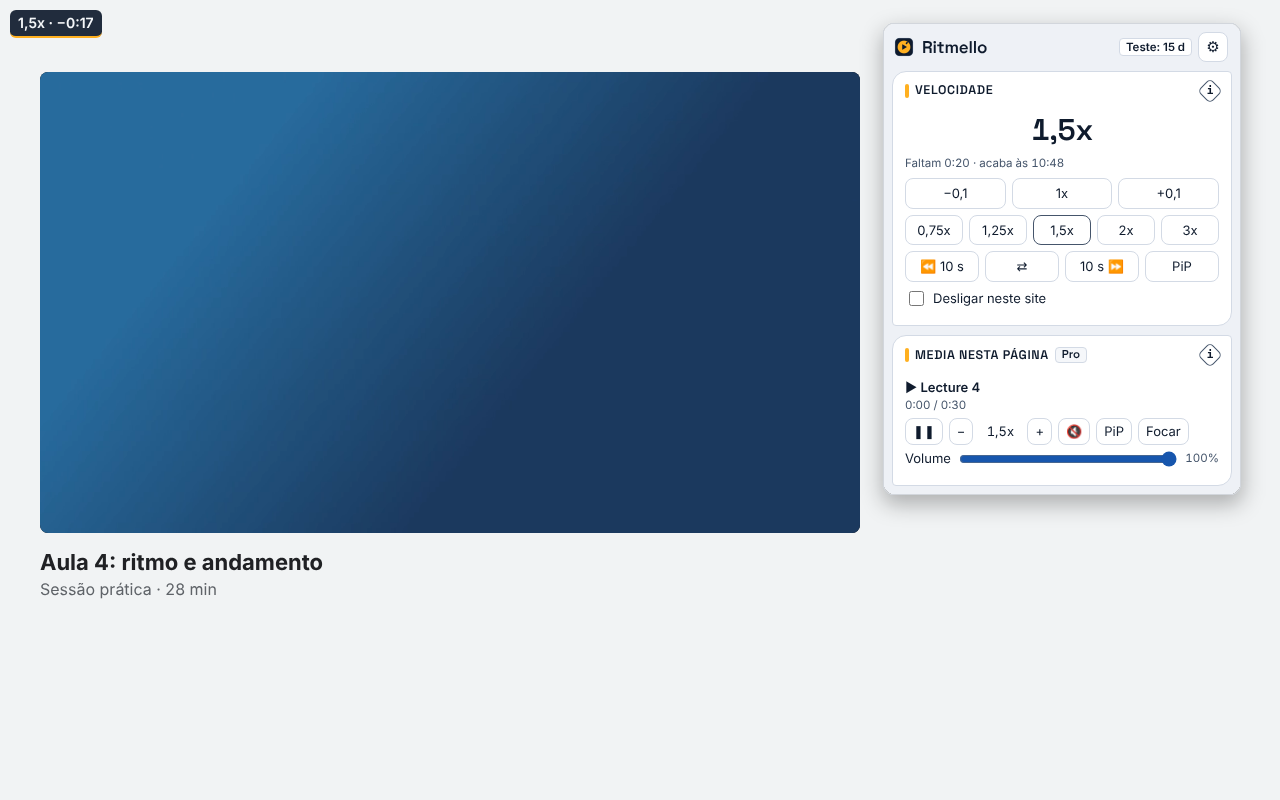
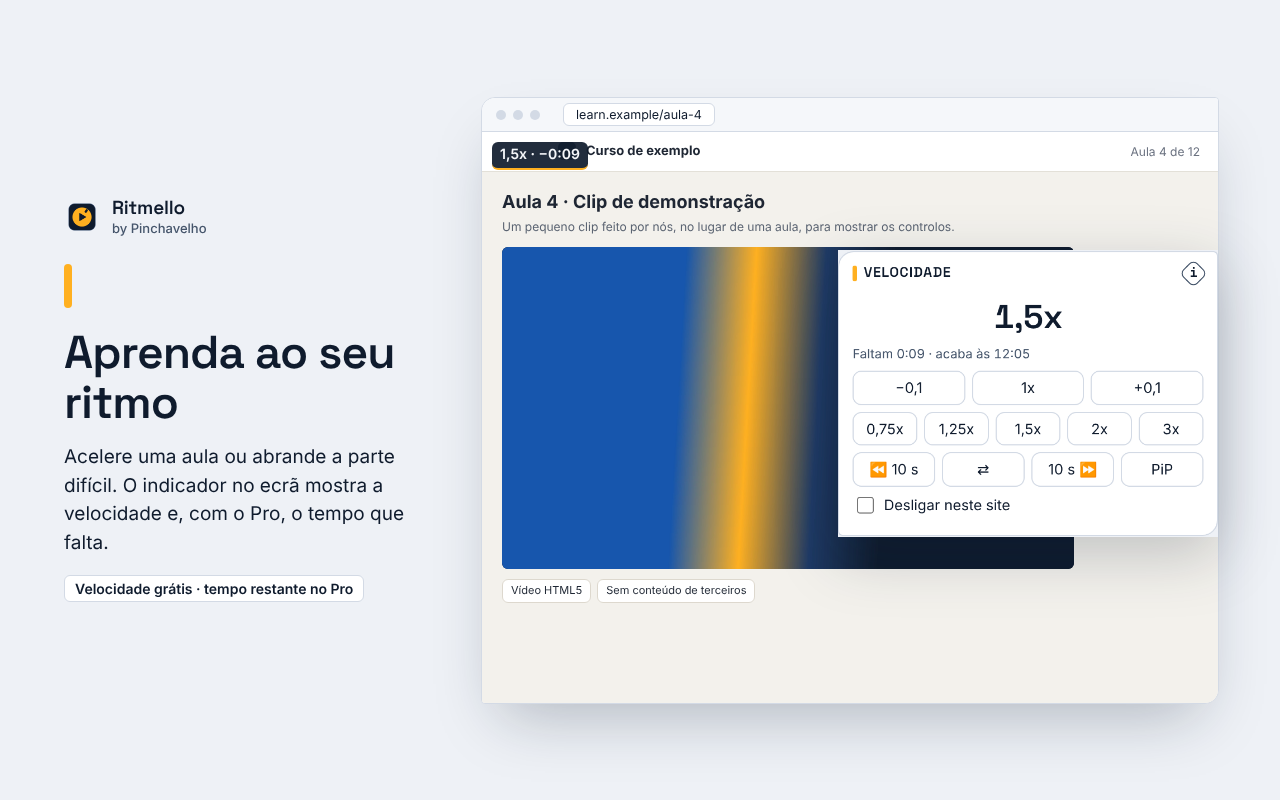
Capturas definitivas do Ritmello 1.0.0 e ampliar imagens ao clicar
As 4 capturas provisórias passam às definitivas da loja (EN e PT).
Clicar numa captura amplia-a por cima da página, só com CSS (:target),
sem JS; clicar outra vez ou em Fechar volta à galeria.

Claude-Session: https://claude.ai/code/session_01B6e4ap8FPP9z31xEanH7sp

diff --git a/pt/ritmello/index.html b/pt/ritmello/index.html
@@ -43,7 +43,7 @@
 <p class="lead">Velocidade, saltos e som mais claro para os vídeos e áudios com que aprende, em qualquer site. O Ritmello só entra numa página quando clica nele. Sem rastreio. Sem anúncios. Sem conta.</p>
 <div class="actions"><span class="btn pending">Chrome Web Store: brevemente</span><a class="btn" href="#price">Ritmello Pro: pague o que achar justo</a></div>
 <p class="note">Para o Google Chrome 124 ou mais recente. Todas as funcionalidades Pro podem ser experimentadas grátis durante 15 dias.</p></div></div></section>
-<section class="wrap" aria-labelledby="see"><h2 id="see">Veja</h2><p class="note">Imagens de uma versão de teste; vão ser substituídas no lançamento.</p><div class="shots"><figure><img src="/assets/img/screens/ritmello_01_speed_pt_1280x800.png" alt="O painel do Ritmello ao lado de um vídeo de uma aula: velocidade a 1,5x, com o tempo restante e a lista de media da página." width="1280" height="800" loading="lazy" decoding="async"><figcaption>O painel do Ritmello ao lado de um vídeo de uma aula: velocidade a 1,5x, com o tempo restante e a lista de media da página.</figcaption></figure><figure><img src="/assets/img/screens/ritmello_02_study_pt_1280x800.png" alt="Ferramentas de estudo (Pro): saltar silêncios, modo foco, um loop A-B e um marcador." width="1280" height="800" loading="lazy" decoding="async"><figcaption>Ferramentas de estudo (Pro): saltar silêncios, modo foco, um loop A-B e um marcador.</figcaption></figure><figure><img src="/assets/img/screens/ritmello_03_pro_pt_1280x800.png" alt="O ecrã do Pro: Grátis e Pro lado a lado, e pague o que achar justo a partir do mínimo." width="1280" height="800" loading="lazy" decoding="async"><figcaption>O ecrã do Pro: Grátis e Pro lado a lado, e pague o que achar justo a partir do mínimo.</figcaption></figure><figure><img src="/assets/img/screens/ritmello_04_audio_dark_pt_1280x800.png" alt="Ferramentas de som (Pro) no modo escuro: amplificação de volume, equalizador e Voz clara." width="1280" height="800" loading="lazy" decoding="async"><figcaption>Ferramentas de som (Pro) no modo escuro: amplificação de volume, equalizador e Voz clara.</figcaption></figure></div></section>
+<section class="wrap" aria-labelledby="see"><h2 id="see">Veja</h2><p class="note">Clique numa imagem para a ampliar.</p><div class="shots"><figure><a class="zoomable" href="#zoom-1" aria-label="Ampliar imagem: O painel de velocidade do Ritmello ao lado de um vídeo de uma aula: 1,5x, com a hora a que acaba ao seu ritmo e o indicador no ecrã."><img src="/assets/img/screens/ritmello_01_speed_pt_1280x800.png" alt="O painel de velocidade do Ritmello ao lado de um vídeo de uma aula: 1,5x, com a hora a que acaba ao seu ritmo e o indicador no ecrã." width="1280" height="800" loading="lazy" decoding="async"></a><figcaption>O painel de velocidade do Ritmello ao lado de um vídeo de uma aula: 1,5x, com a hora a que acaba ao seu ritmo e o indicador no ecrã.</figcaption></figure><figure><a class="zoomable" href="#zoom-2" aria-label="Ampliar imagem: Ferramentas de estudo (Pro): saltar silêncios, modo foco, um loop A-B, marcadores e tempo poupado."><img src="/assets/img/screens/ritmello_02_study_pt_1280x800.png" alt="Ferramentas de estudo (Pro): saltar silêncios, modo foco, um loop A-B, marcadores e tempo poupado." width="1280" height="800" loading="lazy" decoding="async"></a><figcaption>Ferramentas de estudo (Pro): saltar silêncios, modo foco, um loop A-B, marcadores e tempo poupado.</figcaption></figure><figure><a class="zoomable" href="#zoom-3" aria-label="Ampliar imagem: Modo foco (Pro): o resto da página fica escurecido à volta do vídeo."><img src="/assets/img/screens/ritmello_03_focus_pt_1280x800.png" alt="Modo foco (Pro): o resto da página fica escurecido à volta do vídeo." width="1280" height="800" loading="lazy" decoding="async"></a><figcaption>Modo foco (Pro): o resto da página fica escurecido à volta do vídeo.</figcaption></figure><figure><a class="zoomable" href="#zoom-4" aria-label="Ampliar imagem: Todos os vídeos da página (Pro): um painel com controlos próprios para cada vídeo e áudio."><img src="/assets/img/screens/ritmello_04_panel_pt_1280x800.png" alt="Todos os vídeos da página (Pro): um painel com controlos próprios para cada vídeo e áudio." width="1280" height="800" loading="lazy" decoding="async"></a><figcaption>Todos os vídeos da página (Pro): um painel com controlos próprios para cada vídeo e áudio.</figcaption></figure></div><div class="lightbox" id="zoom-1"><a href="#see" aria-label="Fechar"><img src="/assets/img/screens/ritmello_01_speed_pt_1280x800.png" alt="O painel de velocidade do Ritmello ao lado de um vídeo de uma aula: 1,5x, com a hora a que acaba ao seu ritmo e o indicador no ecrã." width="1280" height="800" loading="lazy" decoding="async"><span class="lb-close">Fechar ×</span></a></div><div class="lightbox" id="zoom-2"><a href="#see" aria-label="Fechar"><img src="/assets/img/screens/ritmello_02_study_pt_1280x800.png" alt="Ferramentas de estudo (Pro): saltar silêncios, modo foco, um loop A-B, marcadores e tempo poupado." width="1280" height="800" loading="lazy" decoding="async"><span class="lb-close">Fechar ×</span></a></div><div class="lightbox" id="zoom-3"><a href="#see" aria-label="Fechar"><img src="/assets/img/screens/ritmello_03_focus_pt_1280x800.png" alt="Modo foco (Pro): o resto da página fica escurecido à volta do vídeo." width="1280" height="800" loading="lazy" decoding="async"><span class="lb-close">Fechar ×</span></a></div><div class="lightbox" id="zoom-4"><a href="#see" aria-label="Fechar"><img src="/assets/img/screens/ritmello_04_panel_pt_1280x800.png" alt="Todos os vídeos da página (Pro): um painel com controlos próprios para cada vídeo e áudio." width="1280" height="800" loading="lazy" decoding="async"><span class="lb-close">Fechar ×</span></a></div></section>
 <section class="wrap" aria-labelledby="what"><h2 id="what">O que faz</h2><div class="grid">
 <div class="card"><h3>A sua velocidade</h3><p>De 0,1x a 16x, em passos de 0,1 ou com predefinições de um clique. A velocidade que escolhe mantém-se ao longo do vídeo.</p></div>
 <div class="card"><h3>Menos espera</h3><p>Salte 10 segundos com uma tecla. Com o Pro, o Ritmello acelera nos silêncios das aulas e palestras e diz-lhe quanto tempo poupou.</p></div>

diff --git a/ritmello/index.html b/ritmello/index.html
@@ -43,7 +43,7 @@
 <p class="lead">Speed, skips and clearer sound for the video and audio you learn from, on any website. Ritmello only enters a page when you click it. No tracking. No ads. No account.</p>
 <div class="actions"><span class="btn pending">Chrome Web Store: coming soon</span><a class="btn" href="#price">Ritmello Pro: pay what you think is fair</a></div>
 <p class="note">For Google Chrome 124 or later. Every Pro feature can be tried free for 15 days.</p></div></div></section>
-<section class="wrap" aria-labelledby="see"><h2 id="see">See it</h2><p class="note">Images from a test version; they will be replaced at launch.</p><div class="shots"><figure><img src="/assets/img/screens/ritmello_01_speed_en_1280x800.png" alt="Ritmello&#x27;s panel next to a lesson video: speed set to 1.5x, with the time left and the list of media on the page." width="1280" height="800" loading="lazy" decoding="async"><figcaption>Ritmello&#x27;s panel next to a lesson video: speed set to 1.5x, with the time left and the list of media on the page.</figcaption></figure><figure><img src="/assets/img/screens/ritmello_02_study_en_1280x800.png" alt="Study tools (Pro): skip silences, focus mode, an A-B loop and a bookmark." width="1280" height="800" loading="lazy" decoding="async"><figcaption>Study tools (Pro): skip silences, focus mode, an A-B loop and a bookmark.</figcaption></figure><figure><img src="/assets/img/screens/ritmello_03_pro_en_1280x800.png" alt="The Pro screen: Free and Pro side by side, and pay what you think is fair from the minimum." width="1280" height="800" loading="lazy" decoding="async"><figcaption>The Pro screen: Free and Pro side by side, and pay what you think is fair from the minimum.</figcaption></figure><figure><img src="/assets/img/screens/ritmello_04_audio_dark_en_1280x800.png" alt="Audio tools (Pro) in dark mode: volume boost, equalizer and Clear voice." width="1280" height="800" loading="lazy" decoding="async"><figcaption>Audio tools (Pro) in dark mode: volume boost, equalizer and Clear voice.</figcaption></figure></div></section>
+<section class="wrap" aria-labelledby="see"><h2 id="see">See it</h2><p class="note">Click an image to enlarge it.</p><div class="shots"><figure><a class="zoomable" href="#zoom-1" aria-label="Enlarge image: Ritmello&#x27;s speed panel next to a lesson video: 1.5x, with the time it ends at your speed and the on-screen indicator."><img src="/assets/img/screens/ritmello_01_speed_en_1280x800.png" alt="Ritmello&#x27;s speed panel next to a lesson video: 1.5x, with the time it ends at your speed and the on-screen indicator." width="1280" height="800" loading="lazy" decoding="async"></a><figcaption>Ritmello&#x27;s speed panel next to a lesson video: 1.5x, with the time it ends at your speed and the on-screen indicator.</figcaption></figure><figure><a class="zoomable" href="#zoom-2" aria-label="Enlarge image: Study tools (Pro): skip silences, focus mode, an A-B loop, bookmarks and time saved."><img src="/assets/img/screens/ritmello_02_study_en_1280x800.png" alt="Study tools (Pro): skip silences, focus mode, an A-B loop, bookmarks and time saved." width="1280" height="800" loading="lazy" decoding="async"></a><figcaption>Study tools (Pro): skip silences, focus mode, an A-B loop, bookmarks and time saved.</figcaption></figure><figure><a class="zoomable" href="#zoom-3" aria-label="Enlarge image: Focus mode (Pro): the rest of the page is dimmed around the video."><img src="/assets/img/screens/ritmello_03_focus_en_1280x800.png" alt="Focus mode (Pro): the rest of the page is dimmed around the video." width="1280" height="800" loading="lazy" decoding="async"></a><figcaption>Focus mode (Pro): the rest of the page is dimmed around the video.</figcaption></figure><figure><a class="zoomable" href="#zoom-4" aria-label="Enlarge image: Every video on the page (Pro): one panel with its own controls for each video and audio."><img src="/assets/img/screens/ritmello_04_panel_en_1280x800.png" alt="Every video on the page (Pro): one panel with its own controls for each video and audio." width="1280" height="800" loading="lazy" decoding="async"></a><figcaption>Every video on the page (Pro): one panel with its own controls for each video and audio.</figcaption></figure></div><div class="lightbox" id="zoom-1"><a href="#see" aria-label="Close"><img src="/assets/img/screens/ritmello_01_speed_en_1280x800.png" alt="Ritmello&#x27;s speed panel next to a lesson video: 1.5x, with the time it ends at your speed and the on-screen indicator." width="1280" height="800" loading="lazy" decoding="async"><span class="lb-close">Close ×</span></a></div><div class="lightbox" id="zoom-2"><a href="#see" aria-label="Close"><img src="/assets/img/screens/ritmello_02_study_en_1280x800.png" alt="Study tools (Pro): skip silences, focus mode, an A-B loop, bookmarks and time saved." width="1280" height="800" loading="lazy" decoding="async"><span class="lb-close">Close ×</span></a></div><div class="lightbox" id="zoom-3"><a href="#see" aria-label="Close"><img src="/assets/img/screens/ritmello_03_focus_en_1280x800.png" alt="Focus mode (Pro): the rest of the page is dimmed around the video." width="1280" height="800" loading="lazy" decoding="async"><span class="lb-close">Close ×</span></a></div><div class="lightbox" id="zoom-4"><a href="#see" aria-label="Close"><img src="/assets/img/screens/ritmello_04_panel_en_1280x800.png" alt="Every video on the page (Pro): one panel with its own controls for each video and audio." width="1280" height="800" loading="lazy" decoding="async"><span class="lb-close">Close ×</span></a></div></section>
 <section class="wrap" aria-labelledby="what"><h2 id="what">What it does</h2><div class="grid">
 <div class="card"><h3>Your speed</h3><p>From 0.1x to 16x, in steps of 0.1 or with one-click presets. The speed you pick stays as you move through the video.</p></div>
 <div class="card"><h3>Less waiting</h3><p>Skip 10 seconds with a key. With Pro, Ritmello speeds through the silences in lessons and talks, and tells you how much time you saved.</p></div>

diff --git a/assets/css/site.css b/assets/css/site.css
@@ -95,3 +95,11 @@ code{font-family:ui-monospace,SFMono-Regular,Menlo,Consolas,monospace;font-size:
 .tablewrap{overflow-x:auto;margin:1rem 0}
 .tablewrap table{margin:0}
 .doc code{overflow-wrap:anywhere}
+/* Ampliar capturas sem JS (:target). Ver _ferramentas/gerar_site.py, ritmello(). */
+a.zoomable{display:block;cursor:zoom-in}
+a.zoomable:focus-visible img{outline:3px solid var(--ambar);outline-offset:2px}
+.lightbox{display:none}
+.lightbox:target{display:flex;position:fixed;inset:0;z-index:100;align-items:center;justify-content:center;padding:1rem;background:rgba(10,14,22,.92)}
+.lightbox a{display:block;max-width:100%;max-height:100%;cursor:zoom-out;text-decoration:none}
+.lightbox img{display:block;width:auto;height:auto;max-width:min(100%,1280px);max-height:calc(100vh - 4rem);border-radius:8px;margin:0 auto}
+.lb-close{display:block;text-align:center;color:#fff;margin-top:.5rem;font-size:.95rem}

diff --git a/_ferramentas/gerar_site.py b/_ferramentas/gerar_site.py
@@ -255,10 +255,10 @@ R = {
              "Time left at your speed, and time saved", "Focus mode", "Volume boost up to 600%",
              "10-band equalizer with presets", "Clear voice and Night modes, mono, stereo balance",
              "Per-site memory (stored only on your computer)", "Custom shortcuts, including volume keys"],
-        shots=[("ritmello_01_speed_en_1280x800.png", "Ritmello's panel next to a lesson video: speed set to 1.5x, with the time left and the list of media on the page."),
-               ("ritmello_02_study_en_1280x800.png", "Study tools (Pro): skip silences, focus mode, an A-B loop and a bookmark."),
-               ("ritmello_03_pro_en_1280x800.png", "The Pro screen: Free and Pro side by side, and pay what you think is fair from the minimum."),
-               ("ritmello_04_audio_dark_en_1280x800.png", "Audio tools (Pro) in dark mode: volume boost, equalizer and Clear voice.")],
+        shots=[("ritmello_01_speed_en_1280x800.png", "Ritmello's speed panel next to a lesson video: 1.5x, with the time it ends at your speed and the on-screen indicator."),
+               ("ritmello_02_study_en_1280x800.png", "Study tools (Pro): skip silences, focus mode, an A-B loop, bookmarks and time saved."),
+               ("ritmello_03_focus_en_1280x800.png", "Focus mode (Pro): the rest of the page is dimmed around the video."),
+               ("ritmello_04_panel_en_1280x800.png", "Every video on the page (Pro): one panel with its own controls for each video and audio.")],
         limits_title="They’ll always win.",
         limits_intro="Some things we wanted to build are not possible, or not allowed. Here they are, before you buy.",
         idea="We thought of:", reason="Why not:", instead="What it does instead:",
@@ -281,10 +281,10 @@ R = {
              "Tempo restante ao seu ritmo e tempo poupado", "Modo foco", "Amplificação de volume até 600%",
              "Equalizador de 10 bandas com predefinições", "Modos Voz clara e Noite, mono, balanço estéreo",
              "Memória por site (guardada só no seu computador)", "Atalhos personalizados, incluindo teclas de volume"],
-        shots=[("ritmello_01_speed_pt_1280x800.png", "O painel do Ritmello ao lado de um vídeo de uma aula: velocidade a 1,5x, com o tempo restante e a lista de media da página."),
-               ("ritmello_02_study_pt_1280x800.png", "Ferramentas de estudo (Pro): saltar silêncios, modo foco, um loop A-B e um marcador."),
-               ("ritmello_03_pro_pt_1280x800.png", "O ecrã do Pro: Grátis e Pro lado a lado, e pague o que achar justo a partir do mínimo."),
-               ("ritmello_04_audio_dark_pt_1280x800.png", "Ferramentas de som (Pro) no modo escuro: amplificação de volume, equalizador e Voz clara.")],
+        shots=[("ritmello_01_speed_pt_1280x800.png", "O painel de velocidade do Ritmello ao lado de um vídeo de uma aula: 1,5x, com a hora a que acaba ao seu ritmo e o indicador no ecrã."),
+               ("ritmello_02_study_pt_1280x800.png", "Ferramentas de estudo (Pro): saltar silêncios, modo foco, um loop A-B, marcadores e tempo poupado."),
+               ("ritmello_03_focus_pt_1280x800.png", "Modo foco (Pro): o resto da página fica escurecido à volta do vídeo."),
+               ("ritmello_04_panel_pt_1280x800.png", "Todos os vídeos da página (Pro): um painel com controlos próprios para cada vídeo e áudio.")],
         limits_title="Eles vão ganhar sempre.",
         limits_intro="Algumas coisas que quisemos fazer não são possíveis ou não são permitidas. Aqui estão, antes de comprar.",
         idea="Pensámos em:", reason="Porque não:", instead="O que faz em vez disso:",
@@ -334,9 +334,15 @@ def buy_buttons(lang):
 def ritmello(lang):
     r = R[lang]
     en = lang == "en"
+    # Ampliar sem JS: cada captura liga para #zoom-N; o CSS mostra esse bloco (:target) por cima da página.
+    # Clicar na imagem ampliada (ou em "Fechar") volta a #see. A imagem ampliada só carrega quando aparece.
+    zoom_l, close_l = ("Enlarge image", "Close") if en else ("Ampliar imagem", "Fechar")
     shots = "".join(
-        '<figure><img src="/assets/img/screens/%s" alt="%s" width="1280" height="800" loading="lazy" decoding="async"><figcaption>%s</figcaption></figure>'
-        % (f, e(a), e(a)) for f, a in r["shots"])
+        '<figure><a class="zoomable" href="#zoom-%d" aria-label="%s: %s"><img src="/assets/img/screens/%s" alt="%s" width="1280" height="800" loading="lazy" decoding="async"></a><figcaption>%s</figcaption></figure>'
+        % (i, zoom_l, e(a), f, e(a), e(a)) for i, (f, a) in enumerate(r["shots"], 1))
+    shots_zoom = "".join(
+        '<div class="lightbox" id="zoom-%d"><a href="#see" aria-label="%s"><img src="/assets/img/screens/%s" alt="%s" width="1280" height="800" loading="lazy" decoding="async"><span class="lb-close">%s ×</span></a></div>'
+        % (i, close_l, f, e(a), close_l) for i, (f, a) in enumerate(r["shots"], 1))
     rows = "".join('<tr><th scope="row">%s</th><td class="c">%s</td><td class="c">%s</td></tr>' % (e(x), yes(lang), yes(lang)) for x in r["free"])
     rows += "".join('<tr><th scope="row">%s</th><td class="c">%s</td><td class="c">%s</td></tr>' % (e(x), no(lang), yes(lang)) for x in r["pro"])
     cws = '<span class="btn pending">%s</span>' % T[lang]["cws_soon"]
@@ -354,7 +360,7 @@ def ritmello(lang):
 <p class="lead">Speed, skips and clearer sound for the video and audio you learn from, on any website. Ritmello only enters a page when you click it. No tracking. No ads. No account.</p>
 <div class="actions">{cws}{buy}</div>
 <p class="note">For Google Chrome 124 or later. Every Pro feature can be tried free for 15 days.</p></div></div></section>
-<section class="wrap" aria-labelledby="see"><h2 id="see">See it</h2><p class="note">Images from a test version; they will be replaced at launch.</p><div class="shots">{shots}</div></section>
+<section class="wrap" aria-labelledby="see"><h2 id="see">See it</h2><p class="note">Click an image to enlarge it.</p><div class="shots">{shots}</div>{shots_zoom}</section>
 <section class="wrap" aria-labelledby="what"><h2 id="what">What it does</h2><div class="grid">
 <div class="card"><h3>Your speed</h3><p>From 0.1x to 16x, in steps of 0.1 or with one-click presets. The speed you pick stays as you move through the video.</p></div>
 <div class="card"><h3>Less waiting</h3><p>Skip 10 seconds with a key. With Pro, Ritmello speeds through the silences in lessons and talks, and tells you how much time you saved.</p></div>
@@ -408,7 +414,7 @@ def ritmello(lang):
 <p class="lead">Velocidade, saltos e som mais claro para os vídeos e áudios com que aprende, em qualquer site. O Ritmello só entra numa página quando clica nele. Sem rastreio. Sem anúncios. Sem conta.</p>
 <div class="actions">{cws}{buy}</div>
 <p class="note">Para o Google Chrome 124 ou mais recente. Todas as funcionalidades Pro podem ser experimentadas grátis durante 15 dias.</p></div></div></section>
-<section class="wrap" aria-labelledby="see"><h2 id="see">Veja</h2><p class="note">Imagens de uma versão de teste; vão ser substituídas no lançamento.</p><div class="shots">{shots}</div></section>
+<section class="wrap" aria-labelledby="see"><h2 id="see">Veja</h2><p class="note">Clique numa imagem para a ampliar.</p><div class="shots">{shots}</div>{shots_zoom}</section>
 <section class="wrap" aria-labelledby="what"><h2 id="what">O que faz</h2><div class="grid">
 <div class="card"><h3>A sua velocidade</h3><p>De 0,1x a 16x, em passos de 0,1 ou com predefinições de um clique. A velocidade que escolhe mantém-se ao longo do vídeo.</p></div>
 <div class="card"><h3>Menos espera</h3><p>Salte 10 segundos com uma tecla. Com o Pro, o Ritmello acelera nos silêncios das aulas e palestras e diz-lhe quanto tempo poupou.</p></div>
@@ -451,7 +457,7 @@ def ritmello(lang):
         buynote = "" if RITMELLO_CHECKOUT else "A compra abre brevemente. "
     perm_rows = "".join('<tr><th scope="row"><code>%s</code></th><td>%s</td></tr>' % (e(a), e(b)) if not a.startswith(("Sites",)) else
                         '<tr><th scope="row">%s</th><td>%s</td></tr>' % (e(a), e(b)) for a, b in perms)
-    body = body.format(cws=cws, buy=buy_top, shots=shots, rows=rows, mn=MIN_ATUAL[lang], fim=FIM_MIN[lang], ini=INICIO_DEPOIS[lang],
+    body = body.format(cws=cws, buy=buy_top, shots=shots, shots_zoom=shots_zoom, rows=rows, mn=MIN_ATUAL[lang], fim=FIM_MIN[lang], ini=INICIO_DEPOIS[lang],
                        md=MIN_DEPOIS[lang], buttons=buy_buttons(lang), buynote=buynote, limits=limits_block(lang), perms=perm_rows)
     return page(lang, "/ritmello/", title, desc, body, current="ritmello")
 

diff --git a/assets/img/screens/README.md b/assets/img/screens/README.md
@@ -2,14 +2,16 @@
 
 > Documentação interna para pessoas e para o bot Grok. Não é publicada no site.
 
-**O que existe:** 8 capturas **provisórias** do Ritmello (versão de teste 0.0.3), 4 em inglês e 4 em português, usadas na galeria `.shots` de `/ritmello/` e `/pt/ritmello/`.
+**O que existe:** 8 capturas **definitivas** do Ritmello 1.0.0 (iguais às da Chrome Web Store, de `ritmello/loja/imagens/` nos ficheiros do projeto), 4 em inglês e 4 em português, usadas na galeria `.shots` de `/ritmello/` e `/pt/ritmello/`. Ao clicar, ampliam-se sem JS (`:target`).
 
 | Ficheiro | Mostra |
 |---|---|
-| `ritmello_01_speed_<en/pt>_1280x800.png` | painel ao lado de um vídeo: velocidade, tempo restante, media da página |
-| `ritmello_02_study_<en/pt>_1280x800.png` | ferramentas de estudo (Pro): saltar silêncios, modo foco, loop A-B, marcador |
-| `ritmello_03_pro_<en/pt>_1280x800.png` | ecrã do Pro: Grátis vs Pro e preço à escolha |
-| `ritmello_04_audio_dark_<en/pt>_1280x800.png` | som (Pro) no modo escuro |
+| `ritmello_01_speed_<en/pt>_1280x800.png` | painel de velocidade ao lado de um vídeo, indicador no ecrã |
+| `ritmello_02_study_<en/pt>_1280x800.png` | ferramentas de estudo (Pro): saltar silêncios, modo foco, loop A-B, marcadores, tempo poupado |
+| `ritmello_03_focus_<en/pt>_1280x800.png` | modo foco (Pro) |
+| `ritmello_04_panel_<en/pt>_1280x800.png` | painel com todos os vídeos da página (Pro) |
+
+A 5.ª captura da loja (`05_limits_dark`) não entra no site: nomeia um serviço de vídeo e a página já tem o aviso "They'll always win." em texto.
 
 **Regras**
 - Imagens das versões 0.0.x são provisórias; as definitivas fazem-se com a 1.0.0. **Nunca mostrar o número da versão.**
